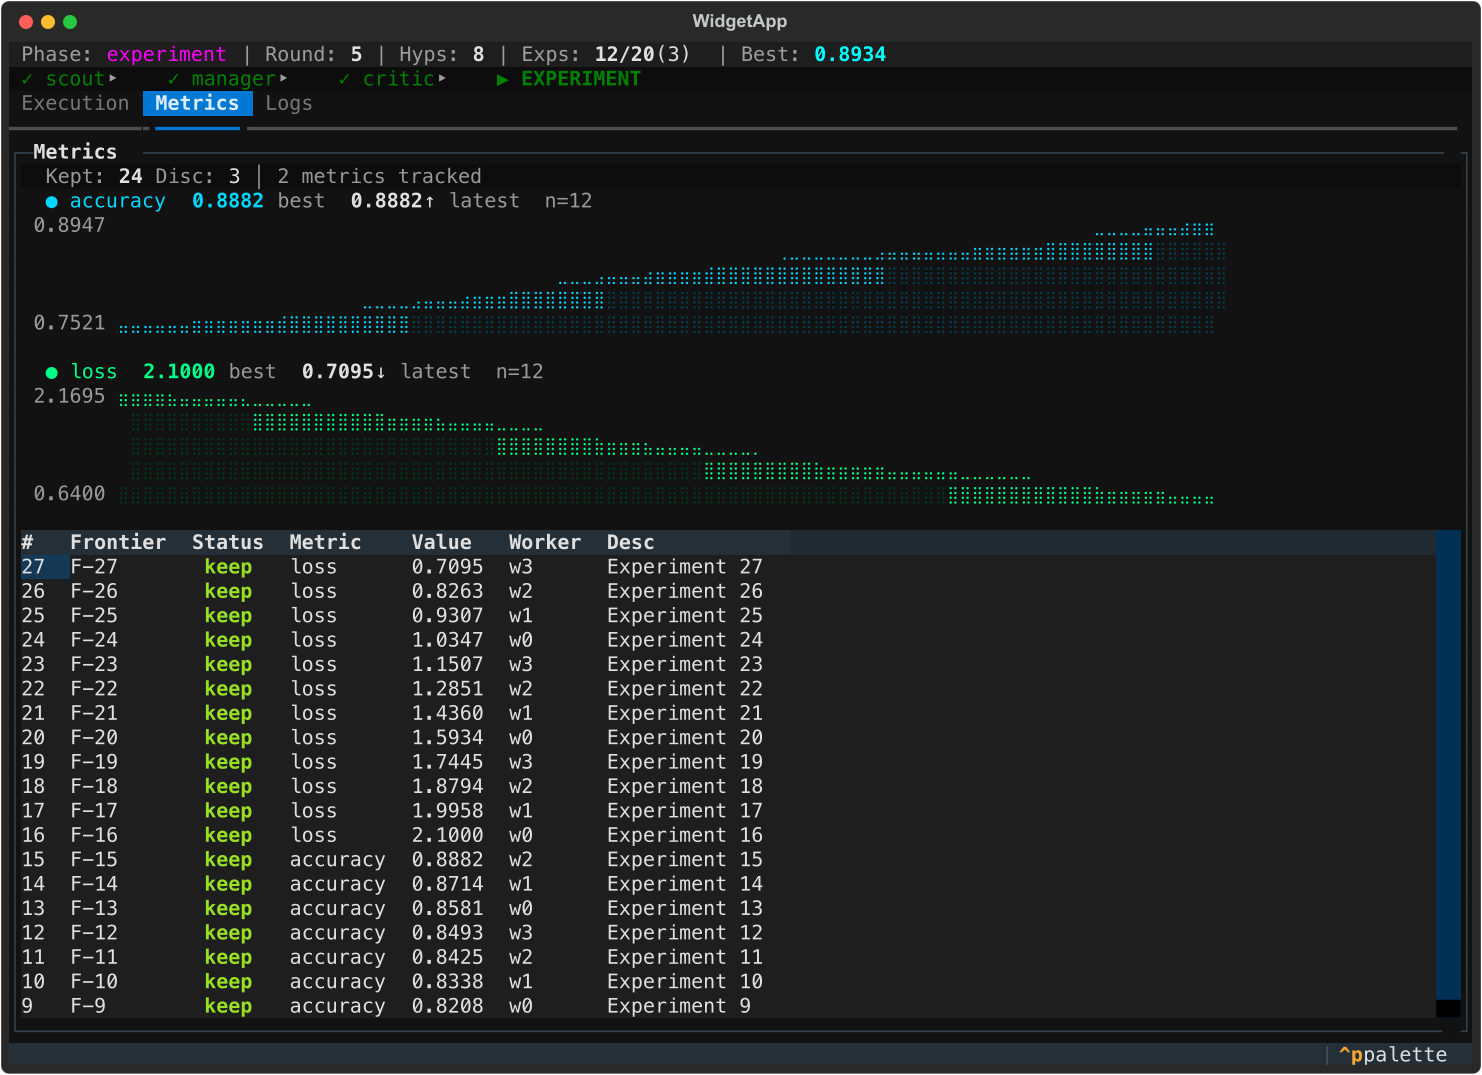
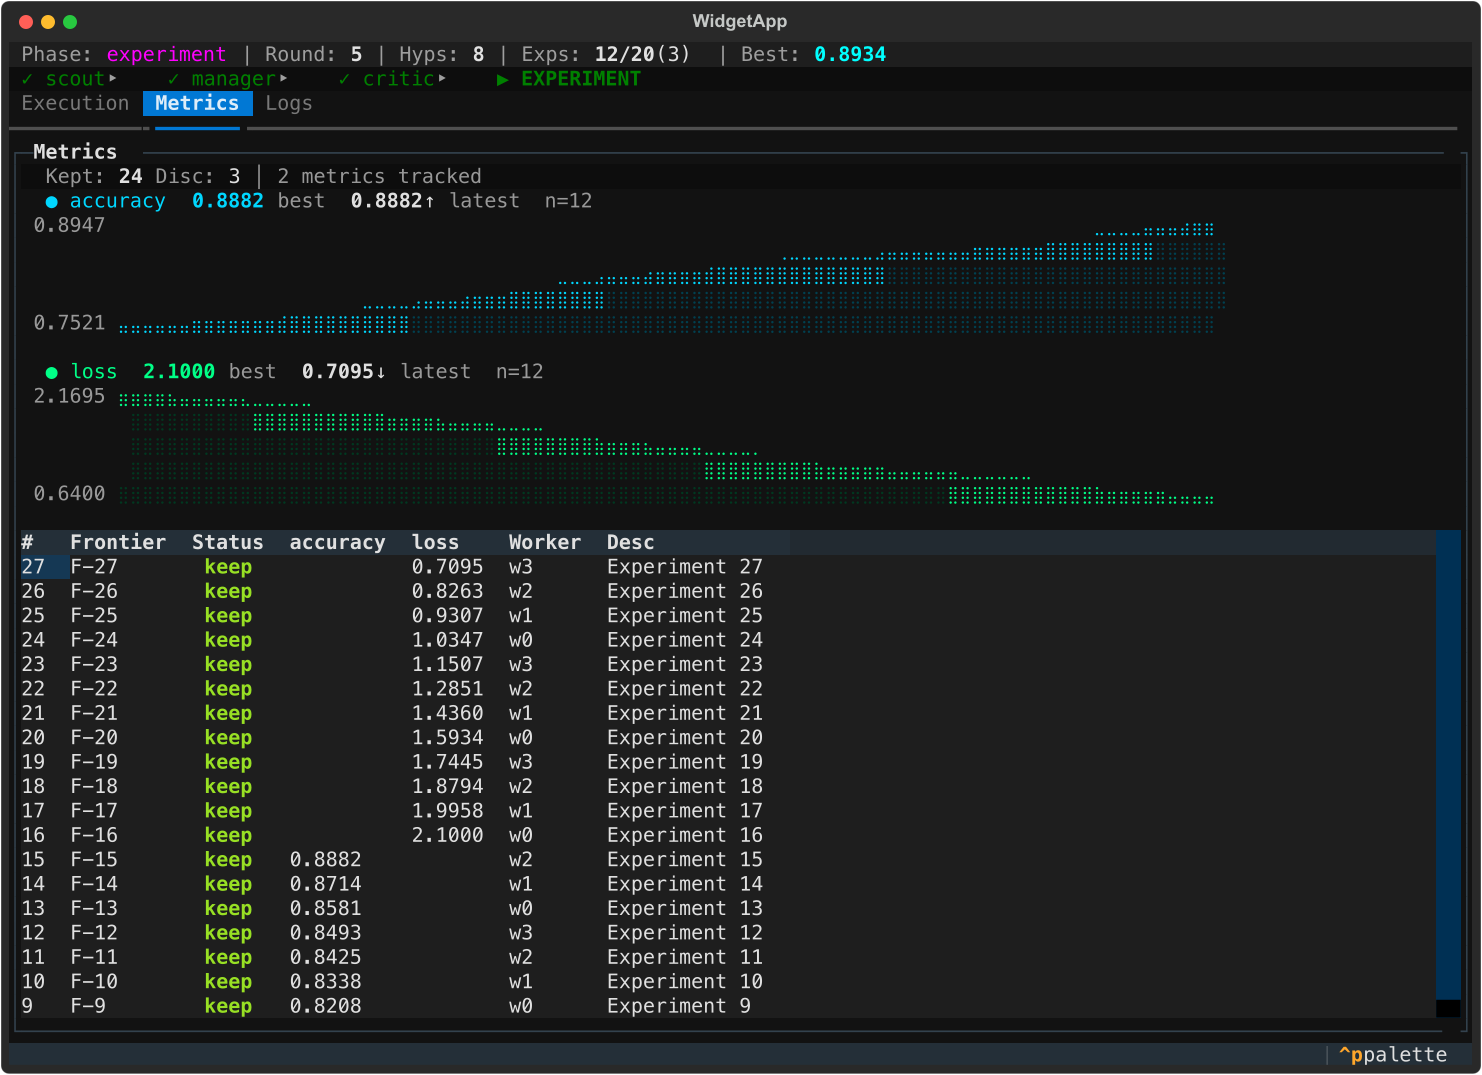
feat(v2): pivot table for multi-metric results
When multiple metrics are tracked, the results table now shows one row
per experiment with each metric as its own column (e.g. accuracy, loss)
instead of one row per metric value. Single-metric mode keeps the
simpler flat layout.

Changed region(s): [[0.1862, 0.4912, 0.3414, 0.9516], [0.2794, 0.4912, 0.3104, 0.5219]]

diff --git a/src/open_researcher_v2/tui/widgets.py b/src/open_researcher_v2/tui/widgets.py
@@ -245,9 +245,7 @@ class MetricChart(Vertical):
     def compose(self):  # type: ignore[override]
         yield Static(id="metric-summary")
         yield Static(id="metric-chart")
-        table = DataTable(id="metric-results")
-        table.add_columns("#", "Frontier", "Status", "Metric", "Value", "Worker", "Desc")
-        yield table
+        yield DataTable(id="metric-results")
 
     def update_data(self, results: list[dict[str, Any]]) -> None:
         summary_w: Static = self.query_one("#metric-summary", Static)
@@ -270,7 +268,7 @@ class MetricChart(Vertical):
         if not metric_data:
             summary_w.update("[dim]No kept results yet.[/]")
             chart_w.update("")
-            table_w.clear()
+            table_w.clear(columns=True)
             return
 
         # -- Summary line --
@@ -300,21 +298,74 @@ class MetricChart(Vertical):
         # -- Sparkline charts --
         self._render_sparklines(chart_w, metric_data)
 
-        # -- Results table (most recent first, up to 20 rows) --
-        table_w.clear()
-        recent = list(reversed(results[-20:]))
-        for i, r in enumerate(recent):
-            idx = len(results) - i
-            status = str(r.get("status", ""))
+        # -- Results table: pivot so each experiment is one row --
+        self._update_table(table_w, results, list(metric_data.keys()))
+
+    @staticmethod
+    def _update_table(
+        table_w: DataTable,
+        results: list[dict[str, Any]],
+        metric_names: list[str],
+    ) -> None:
+        """Rebuild table with one column per metric (pivot view)."""
+        table_w.clear(columns=True)
+
+        if len(metric_names) <= 1:
+            # Single metric or unknown — simple flat table
+            table_w.add_columns("#", "Frontier", "Status", "Value", "Worker", "Desc")
+            recent = list(reversed(results[-20:]))
+            for i, r in enumerate(recent):
+                idx = len(results) - i
+                status = str(r.get("status", ""))
+                style = _STATUS_STYLES.get(status, "white")
+                table_w.add_row(
+                    str(idx),
+                    str(r.get("frontier_id", "")),
+                    Text(status, style=style),
+                    str(r.get("value", "")),
+                    str(r.get("worker", "")),
+                    str(r.get("description", ""))[:40],
+                )
+            return
+
+        # Multi-metric: pivot — group by frontier_id, one column per metric
+        table_w.add_columns("#", "Frontier", "Status", *metric_names, "Worker", "Desc")
+
+        # Build pivot: frontier_id → {metric: value, ...}
+        pivoted: dict[str, dict[str, str]] = {}
+        row_info: dict[str, dict[str, str]] = {}  # frontier_id → status/worker/desc
+        order: list[str] = []  # insertion order of frontier_ids
+
+        for r in results:
+            fid = r.get("frontier_id", "")
+            metric = r.get("metric", "") or "value"
+            if fid not in pivoted:
+                pivoted[fid] = {}
+                order.append(fid)
+                row_info[fid] = {
+                    "status": str(r.get("status", "")),
+                    "worker": str(r.get("worker", "")),
+                    "desc": str(r.get("description", ""))[:40],
+                }
+            pivoted[fid][metric] = str(r.get("value", ""))
+            # Update status to latest
+            row_info[fid]["status"] = str(r.get("status", ""))
+
+        # Show most recent first, up to 20
+        recent_ids = list(reversed(order[-20:]))
+        for i, fid in enumerate(recent_ids):
+            idx = len(order) - i
+            info = row_info[fid]
+            status = info["status"]
             style = _STATUS_STYLES.get(status, "white")
+            metric_vals = [pivoted[fid].get(m, "") for m in metric_names]
             table_w.add_row(
                 str(idx),
-                str(r.get("frontier_id", "")),
+                fid,
                 Text(status, style=style),
-                str(r.get("metric", "")),
-                str(r.get("value", "")),
-                str(r.get("worker", "")),
-                str(r.get("description", ""))[:40],
+                *metric_vals,
+                info["worker"],
+                info["desc"],
             )
 
     @staticmethod
